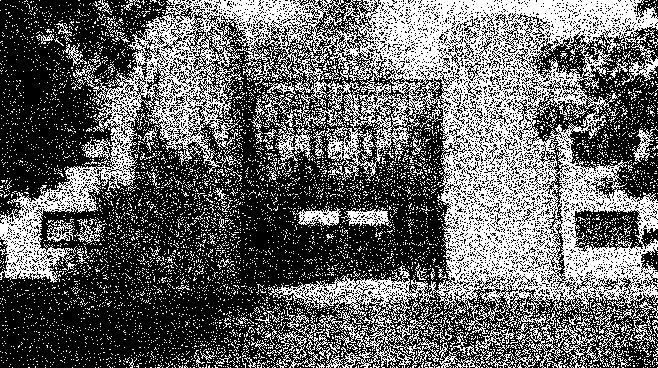
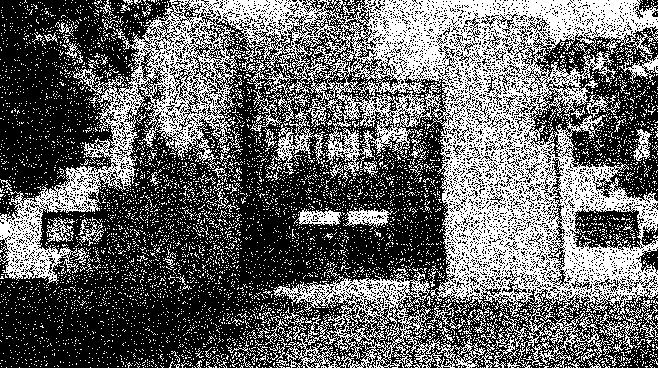
feat : tramage de bayer

diff --git a/dithering/src/tramage_bayer.rs b/dithering/src/tramage_bayer.rs
@@ -1,0 +1,49 @@
+fn generate_bayer_matrix(order: u32) -> Vec<Vec<u32>> {
+    if order == 0 {
+        return vec![vec![0]];
+    }
+
+    let prev_matrix = generate_bayer_matrix(order - 1);
+    let size = 2_usize.pow(order);
+    let mut matrix = vec![vec![0; size]; size];
+
+    for i in 0..size / 2 {
+        for j in 0..size / 2 {
+            let val = prev_matrix[i][j];
+            matrix[i][j] = 4 * val;
+            matrix[i + size / 2][j] = 4 * val + 3;
+            matrix[i][j + size / 2] = 4 * val + 2;
+            matrix[i + size / 2][j + size / 2] = 4 * val + 1;
+        }
+    }
+
+    matrix
+}
+
+pub fn tramage_bayer(
+    image: &mut DynamicImage,
+    order: u32,
+    color1: Option<[u8; 3]>,
+    color2: Option<[u8; 3]>,
+) -> image::RgbImage {
+    let color1 = color1.unwrap_or([255, 255, 255]); // Blanc par défaut
+    let color2 = color2.unwrap_or([0, 0, 0]); // Noir par défaut
+
+    let bayer_matrix = generate_bayer_matrix(order);
+    let matrix_size = bayer_matrix.len();
+    let mut rgb_image = image.to_rgb8();
+
+    for (x, y, pixel) in rgb_image.enumerate_pixels_mut() {
+        let pixel_luminosity =
+            0.299 * pixel[0] as f32 + 0.587 * pixel[1] as f32 + 0.114 * pixel[2] as f32;
+        let threshold = bayer_matrix[(x as usize % matrix_size)][(y as usize % matrix_size)] as f32
+            / (matrix_size * matrix_size) as f32;
+        if pixel_luminosity / 255.0 > threshold {
+            *pixel = image::Rgb(color1);
+        } else {
+            *pixel = image::Rgb(color2);
+        }
+    }
+
+    rgb_image
+}

diff --git a/dithering/src/main.rs b/dithering/src/main.rs
@@ -4,6 +4,7 @@ include!("../src/white.rs");
 include!("../src/no_alpha.rs");
 include!("../src/palette.rs");
 include!("../src/dithering.rs");
+include!("../src/tramage_bayer.rs");
 
 fn main() -> Result<(), ImageError> {
     let img = ImageReader::open("image/BUTInfo.jpg")?.decode()?;
@@ -48,6 +49,10 @@ fn main() -> Result<(), ImageError> {
     let mut dithering_mono = img.clone();
     let dithering_mono_img = dithering(&mut dithering_mono, None, None);
     dithering_mono_img.save("image/dithering.jpg")?;
+
+    let mut tramage = img.clone();
+    let tramage_img = tramage_bayer(&mut tramage, 3, None, None);
+    tramage_img.save("image/tramage.jpg")?;
 
     Ok(())
 }
